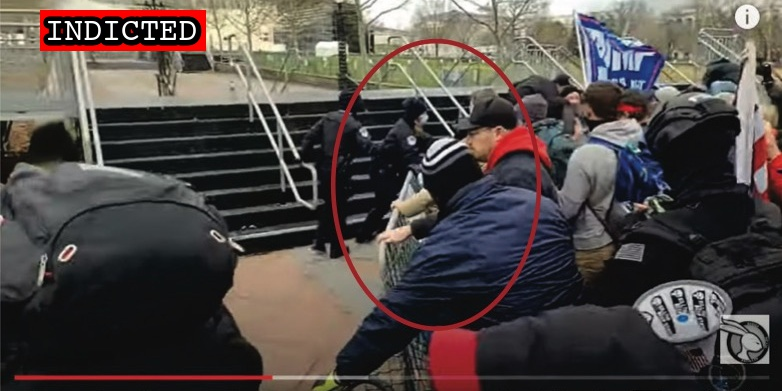
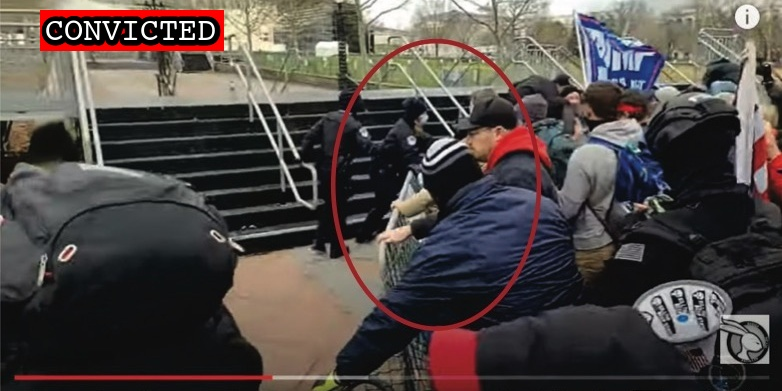
Latest

Changed region(s): [[0.0307, 0.0, 0.3069, 0.1535]]

diff --git a/docs/_suspects/yvonne-st-cyr.md b/docs/_suspects/yvonne-st-cyr.md
@@ -41,33 +41,32 @@ caseName: USA v. ST-CYR
 judge: John D. Bates
 videos:
 charges:
-  - code: 18 USC § 231(a)(3),2
-    title: Obstruction of Law Enforcement During Civil Disorder (Aiding and Abetting)
-    url: https://www.law.cornell.edu/uscode/text/18/231
-    felony: true
-  - code: 18 USC § 231(a)(3),2
-    title: Obstruction of Law Enforcement During Civil Disorder (Aiding and Abetting)
-    url: https://www.law.cornell.edu/uscode/text/18/231
-    felony: true
-  - code: 18 USC § 1752(a)(1)
-    title: Entering a restricted building or grounds
-    url: https://www.law.cornell.edu/uscode/text/18/1752
-    felony: false
-  - code: 18 USC § 1752(a)(2)
-    title: Disorderly and disruptive conduct in a restricted building or grounds
-    url: https://www.law.cornell.edu/uscode/text/18/1752
-    felony: false
-  - code: 40 USC § 5104(e)(2)(D)
-    title: Disorderly Conduct in a Capitol Building
-    url: https://www.law.cornell.edu/uscode/text/40/5104
-    felony: false
-  - code: 40 USC § 5104(e)(2)(G)
-    title: Parading, demonstrating or picketing in a Capitol building
-    url: https://www.law.cornell.edu/uscode/text/40/5104
-    felony: false
+- code: 18 USC § 231(a)(3),2
+  title: Obstruction of Law Enforcement During Civil Disorder (Aiding and Abetting)
+  url: https://www.law.cornell.edu/uscode/text/18/231
+  felony: true
+- code: 18 USC § 231(a)(3),2
+  title: Obstruction of Law Enforcement During Civil Disorder (Aiding and Abetting)
+  url: https://www.law.cornell.edu/uscode/text/18/231
+  felony: true
+- code: 18 USC § 1752(a)(1)
+  title: Entering a restricted building or grounds
+  url: https://www.law.cornell.edu/uscode/text/18/1752
+  felony: false
+- code: 18 USC § 1752(a)(2)
+  title: Disorderly and disruptive conduct in a restricted building or grounds
+  url: https://www.law.cornell.edu/uscode/text/18/1752
+  felony: false
+- code: 40 USC § 5104(e)(2)(D)
+  title: Disorderly Conduct in a Capitol Building
+  url: https://www.law.cornell.edu/uscode/text/40/5104
+  felony: false
+- code: 40 USC § 5104(e)(2)(G)
+  title: Parading, demonstrating or picketing in a Capitol building
+  url: https://www.law.cornell.edu/uscode/text/40/5104
+  felony: false
 sentence:
 ---
-
 - [News Report](https://www.msn.com/en-us/news/crime/boise-woman-arrested-accused-of-crimes-related-to-us-capitol-riot/ar-BB1ef7i4)
 - [Statement of Facts](https://www.justice.gov/usao-dc/case-multi-defendant/file/1379351/download)
 - [Complaint](https://www.justice.gov/usao-dc/case-multi-defendant/file/1379356/download)

diff --git a/docs/_suspects/timothy-hart.md b/docs/_suspects/timothy-hart.md
@@ -4,20 +4,20 @@ lastName: Hart
 hashtag: QCommsGuy
 aka:
 residence: Ohio
-status: Indicted
+status: Convicted
 date: 2021-06-29
 charged: 2021-06-29
 indicted: 2021-08-25
-convicted:
+convicted: 2026-04-26
 acquitted:
 sentenced:
 dismissed:
 deceased:
-plea_hearing: 2023-04-26
+plea_hearing: 2026-04-26
 trial_date:
 trial_type:
 jury_selection:
-sentencing:
+sentencing: 2023-07-27
 status_conference:
 age: 52
 occupation: Owner, I70 PAINTBALL & AIRSOFT
@@ -32,7 +32,7 @@ raid:
 perpwalk:
 quote:
 title: Timothy Hart charged on June 29, 2021
-description: Click for latest case details. Suspects innocent until proven guilty.
+description: Convicted on April 26, 2026. Click for latest case details.
 author: seditiontrack
 layout: suspect
 published: true
@@ -41,8 +41,13 @@ caseName: USA v. HART
 judge: Paul L. Friedman
 videos:
 charges:
+  - code: 18 USC § 231(a)(3)
+    title: Obstruction of Law Enforcement During Civil Disorder
+    url: https://www.law.cornell.edu/uscode/text/18/231
+    felony: true
 sentence:
 ---
+
 - [News Report](https://www.wusa9.com/article/news/national/capitol-riots/i70-paintball-and-airsoft-owner-charged-in-capitol-riots-wearing-qanon-gear-timothy-hart/65-b2582dd8-1272-4dd0-817c-e56829faf180)
 - [Statement of Facts](https://www.justice.gov/usao-dc/case-multi-defendant/file/1408076/download)
-- [Indictment](https://www.justice.gov/usao-dc/case-multi-defendant/file/1459926/download)
+- [Indictment](https://storage.courtlistener.com/recap/gov.uscourts.dcd.234955/gov.uscourts.dcd.234955.18.0_2.pdf)

diff --git a/docs/_suspects/linwood-robinson-ii.md b/docs/_suspects/linwood-robinson-ii.md
@@ -41,13 +41,12 @@ caseName: USA v. ROBINSON-II
 judge: Amy B. Jackson
 videos:
 charges:
-  - code: 40 USC § 5104(e)(2)(G)
-    title: Parading, demonstrating or picketing in a Capitol building
-    url: https://www.law.cornell.edu/uscode/text/40/5104
-    felony: false
+- code: 40 USC § 5104(e)(2)(G)
+  title: Parading, demonstrating or picketing in a Capitol building
+  url: https://www.law.cornell.edu/uscode/text/40/5104
+  felony: false
 sentence:
 ---
-
 - [News Report](https://www.wcnc.com/article/news/local/south-carolina-family-charged-connection-capitol-riot/275-8f18be45-808e-4043-8352-a1256ce11587)
 - [Complaint](https://www.justice.gov/usao-dc/case-multi-defendant/file/1507576/download)
 - [Statement of Facts](https://www.justice.gov/usao-dc/case-multi-defendant/file/1507581/download)

diff --git a/docs/_suspects/linwood-robinson-sr.md b/docs/_suspects/linwood-robinson-sr.md
@@ -41,13 +41,12 @@ caseName: USA v. ROBINSON-SR
 judge: Amy B. Jackson
 videos:
 charges:
-  - code: 40 USC § 5104(e)(2)(G)
-    title: Parading, demonstrating or picketing in a Capitol building
-    url: https://www.law.cornell.edu/uscode/text/40/5104
-    felony: false
+- code: 40 USC § 5104(e)(2)(G)
+  title: Parading, demonstrating or picketing in a Capitol building
+  url: https://www.law.cornell.edu/uscode/text/40/5104
+  felony: false
 sentence:
 ---
-
 - [News Report](https://www.wcnc.com/article/news/local/south-carolina-family-charged-connection-capitol-riot/275-8f18be45-808e-4043-8352-a1256ce11587)
 - [Complaint](https://www.justice.gov/usao-dc/case-multi-defendant/file/1507556/download)
 - [Statement of Facts](https://www.justice.gov/usao-dc/case-multi-defendant/file/1507561/download)

diff --git a/docs/_suspects/daniel-leyden.md b/docs/_suspects/daniel-leyden.md
@@ -13,9 +13,9 @@ acquitted:
 sentenced:
 dismissed:
 deceased:
-plea_hearing:
-trial_date: 2023-06-12
-trial_type: Jury Trial
+plea_hearing: 2023-05-24
+trial_date:
+trial_type:
 jury_selection: 2023-06-12
 sentencing:
 status_conference:

diff --git a/docs/_suspects/joseph-leyden.md b/docs/_suspects/joseph-leyden.md
@@ -13,9 +13,9 @@ acquitted:
 sentenced:
 dismissed:
 deceased:
-plea_hearing:
-trial_date: 2023-06-12
-trial_type: Jury Trial
+plea_hearing: 2023-05-24
+trial_date:
+trial_type:
 jury_selection: 2023-06-12
 sentencing:
 status_conference:

diff --git a/docs/_suspects/vitali-gossjankowski.md b/docs/_suspects/vitali-gossjankowski.md
@@ -18,7 +18,7 @@ trial_date: 2023-02-27
 trial_type: Jury Trial
 jury_selection: 2023-02-27
 sentencing:
-status_conference:
+status_conference: 2023-05-19
 age:
 occupation: Student
 affiliations: Gallaudet University

diff --git a/docs/_suspects/clifford-mackrell.md b/docs/_suspects/clifford-mackrell.md
@@ -18,7 +18,7 @@ trial_date: 2023-05-10
 trial_type: Jury Trial
 jury_selection:
 sentencing:
-status_conference: 2023-04-26
+status_conference: 2023-07-25
 age: 20
 occupation:
 affiliations:

diff --git a/docs/_suspects/donnie-wren.md b/docs/_suspects/donnie-wren.md
@@ -18,7 +18,7 @@ trial_date: 2023-04-19
 trial_type: Jury Trial
 jury_selection: 2023-04-19
 sentencing:
-status_conference: 2023-04-26
+status_conference:
 age:
 occupation:
 affiliations:

diff --git a/docs/_suspects/william-dunfee.md b/docs/_suspects/william-dunfee.md
@@ -18,7 +18,7 @@ trial_date:
 trial_type:
 jury_selection:
 sentencing:
-status_conference: 2023-04-26
+status_conference: 2023-07-05
 age: 57
 occupation: Pastor
 affiliations:

diff --git a/docs/_suspects/alan-hostetter.md b/docs/_suspects/alan-hostetter.md
@@ -15,7 +15,7 @@ dismissed:
 deceased:
 plea_hearing:
 trial_date: 2023-07-06
-trial_type: Jury Trial
+trial_type: Bench Trial
 jury_selection:
 sentencing:
 status_conference:

diff --git a/docs/_suspects/nathan-pelham.md b/docs/_suspects/nathan-pelham.md
@@ -38,7 +38,7 @@ layout: suspect
 published: true
 caseNumber: 23-mj-0079
 caseName: USA v. PELHAM
-judge:
+judge: G. M. Harvey
 videos:
 charges:
 sentence:
